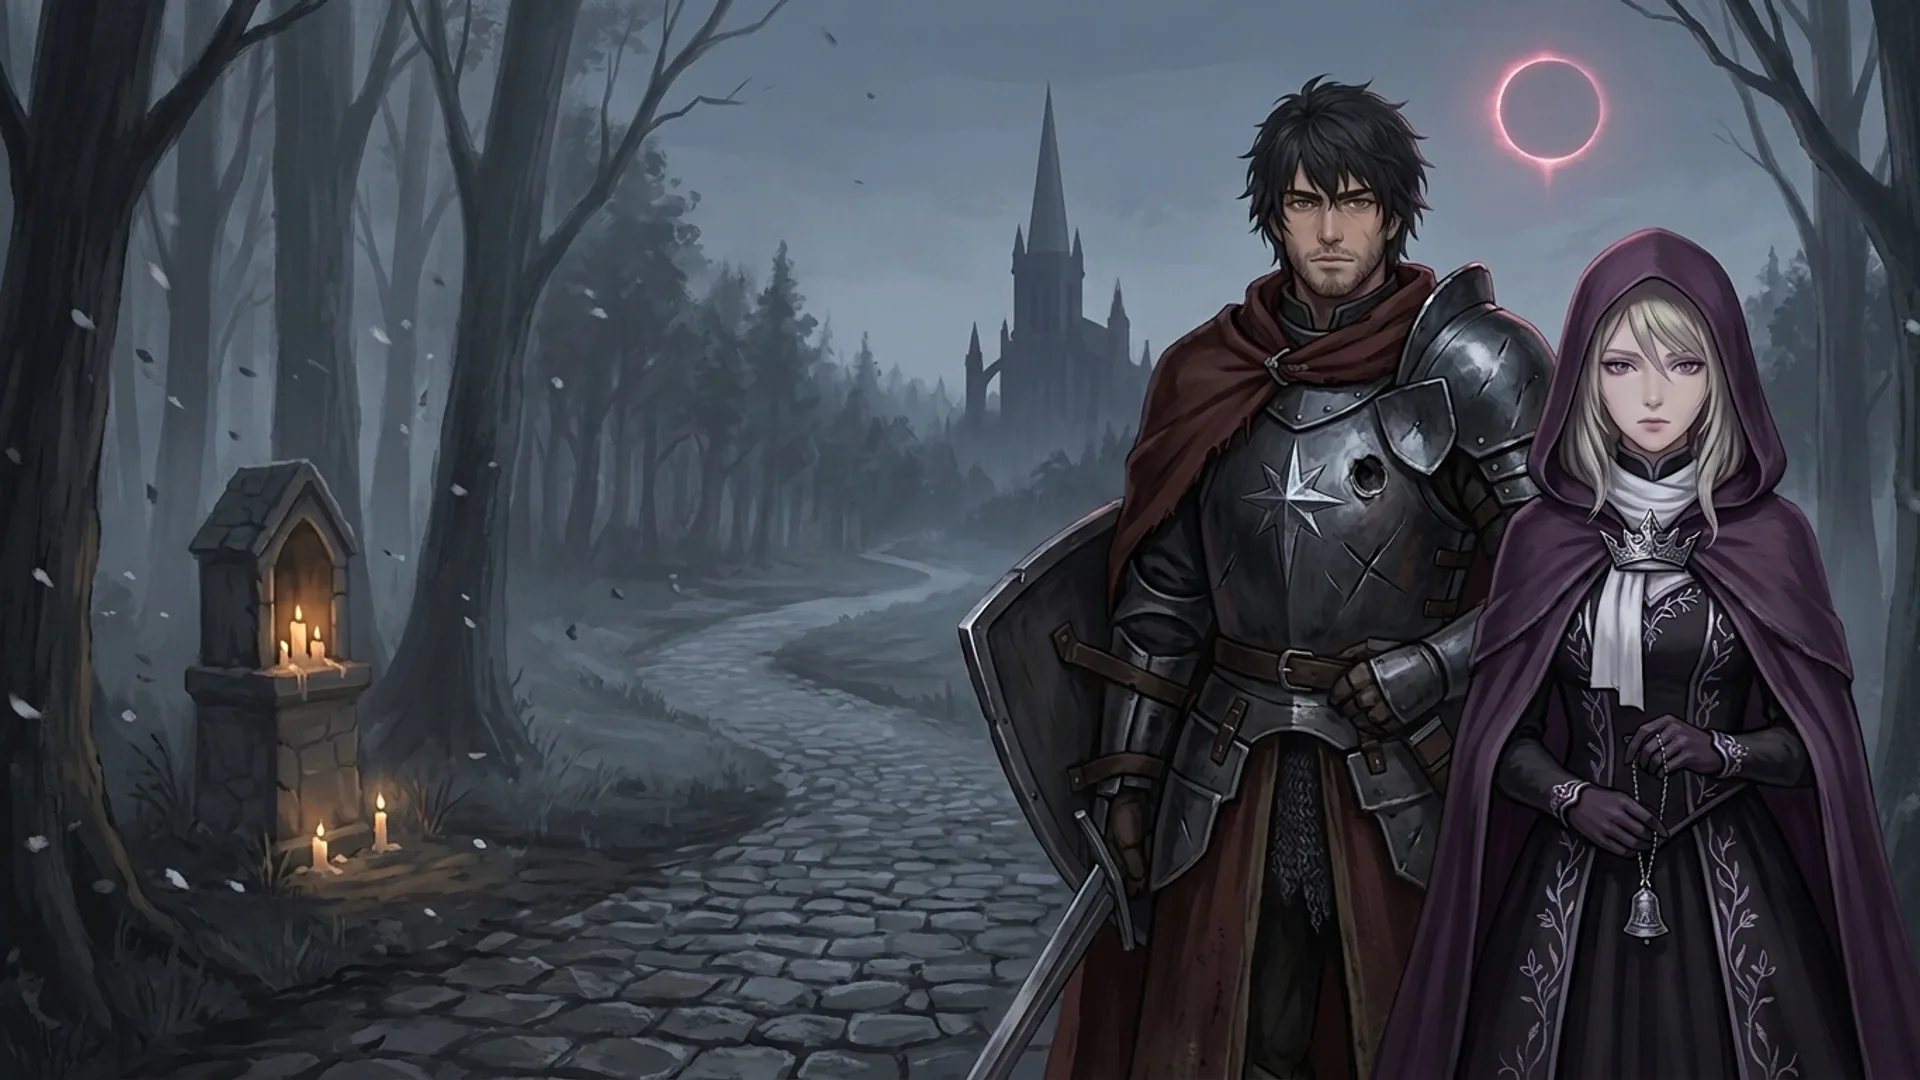
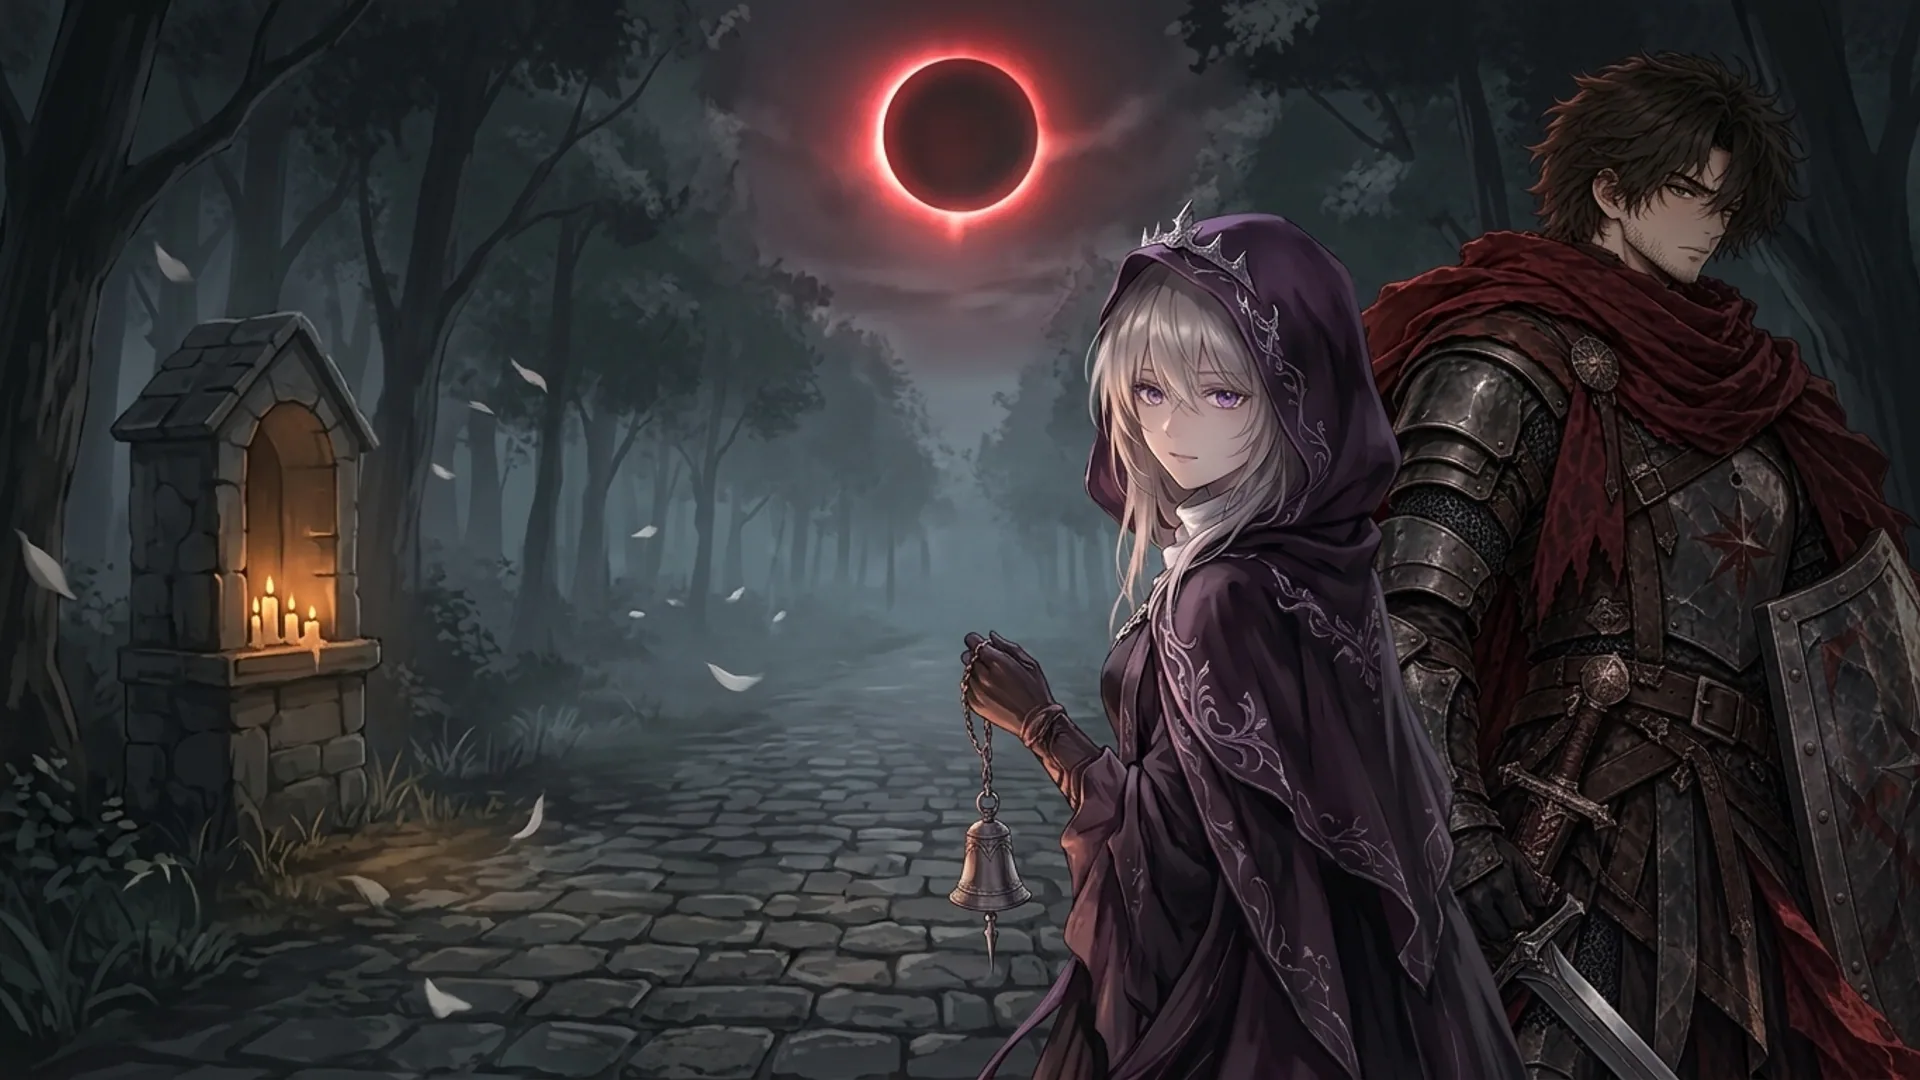
art(step1): regenerate Fadyme & Mahmut plates from canonical templates and remove Prologue scene counter

diff --git a/apps/game/src/scenes/PrologueScene.ts b/apps/game/src/scenes/PrologueScene.ts
@@ -20,7 +20,6 @@ import { C, DEPTH, F, T } from '../ui/theme';
 export const REVEAL_CPS = 26;
 const CROSSFADE_MS = INTRO_FAST ? 60 : 800;
 const TEXT_FADE_MS = INTRO_FAST ? 40 : 450;
-const ROMAN = ['I', 'II', 'III', 'IV', 'V', 'VI', 'VII', 'VIII', 'IX', 'X'] as const;
 
 /** Seconds a scene lasts on screen. Timing comes from the narrative script; `?fastintro` only shortens it for automated review. */
 export const sceneSeconds = (s: PrologueData): number => (INTRO_FAST ? 0.35 : s.duration_seconds);
@@ -36,7 +35,6 @@ export class PrologueScene extends Phaser.Scene {
   private generation = 0;
   private data0: Prologue | null = null;
   private current: Phaser.GameObjects.Image | null = null;
-  private actCounter!: Phaser.GameObjects.Text;
   private caption!: Phaser.GameObjects.Text;
   private captionRule!: Phaser.GameObjects.Graphics;
   private body!: Phaser.GameObjects.Text;
@@ -85,16 +83,7 @@ export class PrologueScene extends Phaser.Scene {
     this.shade.strokeRect(24 + insets.left, 20 + insets.top, REF_W - 48 - insets.left - insets.right, REF_H - 40 - insets.top - insets.bottom);
     this.shade.setAlpha(0);
 
-    const capY = 96 + Math.round(insets.top * 0.5);
-    this.actCounter = txt(this, REF_W / 2, capY - 36, '', {
-      fontFamily: F.display,
-      fontSize: '18px',
-      fontStyle: '600',
-      color: T.dim,
-      stroke: '#05030a',
-      strokeThickness: 3
-    }).setOrigin(0.5).setLetterSpacing(6).setDepth(DEPTH.hud).setAlpha(0);
-
+    const capY = 82 + Math.round(insets.top * 0.5);
     this.caption = txt(this, REF_W / 2, capY, '', {
       fontFamily: F.display,
       fontSize: '34px',
@@ -260,7 +249,7 @@ export class PrologueScene extends Phaser.Scene {
       Sfx.bell(this.index === 4 ? 220 : 330 + (this.index % 3) * 55, 0.08, 1.5);
     }
     this.showPlate(scene, first, holdMs);
-    this.showText(scene, total);
+    this.showText(scene);
     this.fadeTimer?.remove(false);
     this.advanceTimer?.remove(false);
     this.fadeTimer = this.time.delayedCall(Math.max(0, holdMs - TEXT_FADE_MS), () => {
@@ -290,16 +279,13 @@ export class PrologueScene extends Phaser.Scene {
     if (old) this.time.delayedCall(CROSSFADE_MS + 60, () => old.destroy());
   }
 
-  private showText(scene: PrologueData, total: number): void {
+  private showText(scene: PrologueData): void {
     this.typer?.remove(false);
-    this.tweens.killTweensOf([this.body, this.caption, this.actCounter, this.captionRule]);
-    const romCur = ROMAN[this.index] ?? String(this.index + 1);
-    const romTot = ROMAN[total - 1] ?? String(total);
-    this.actCounter.setText(`SCENE ${romCur} / ${romTot}`).setAlpha(0);
+    this.tweens.killTweensOf([this.body, this.caption, this.captionRule]);
     this.caption.setText(scene.caption_en.toUpperCase()).setAlpha(0);
     this.captionRule.setAlpha(0);
     this.body.setText('').setAlpha(1);
-    this.tweens.add({ targets: [this.actCounter, this.caption, this.captionRule], alpha: 1, duration: TEXT_FADE_MS * 2, delay: INTRO_FAST ? 15 : 260 });
+    this.tweens.add({ targets: [this.caption, this.captionRule], alpha: 1, duration: TEXT_FADE_MS * 2, delay: INTRO_FAST ? 15 : 260 });
     const full = this.stage?.text(scene.line_id, scene.text_en) ?? scene.text_en;
     void this.stage?.voice(scene.line_id);
     const step = INTRO_FAST ? 3 : 1;
@@ -317,8 +303,8 @@ export class PrologueScene extends Phaser.Scene {
 
   private fadeText(done: () => void): void {
     this.typer?.remove(false);
-    this.tweens.killTweensOf([this.body, this.caption, this.actCounter, this.captionRule]);
-    this.tweens.add({ targets: [this.body, this.caption, this.actCounter, this.captionRule], alpha: 0, duration: TEXT_FADE_MS, onComplete: done });
+    this.tweens.killTweensOf([this.body, this.caption, this.captionRule]);
+    this.tweens.add({ targets: [this.body, this.caption, this.captionRule], alpha: 0, duration: TEXT_FADE_MS, onComplete: done });
   }
 
   private ending(): void {

diff --git a/tools/mcp_phaser_live.ts b/tools/mcp_phaser_live.ts
@@ -156,6 +156,7 @@ interface InspectOptions {
   scene?: string;
   freshInstall?: boolean;
   fastIntro?: boolean;
+  prologueSceneIndex?: number;
   tapX?: number;
   tapY?: number;
   waitMs?: number;
@@ -164,6 +165,15 @@ interface InspectOptions {
 
 async function inspectLiveScene(opts: InspectOptions): Promise<Record<string, unknown>> {
   mkdirSync(SHOTS_DIR, { recursive: true });
+  try {
+    const syncScript = join(ROOT, 'apps', 'game', 'scripts', 'sync-content.mjs');
+    if (existsSync(syncScript)) {
+      const childSync = spawn(process.execPath, [syncScript], { cwd: join(ROOT, 'apps', 'game'), stdio: 'ignore' });
+      await new Promise((r) => childSync.on('close', r));
+    }
+  } catch {
+    /* ignore */
+  }
   const { url, child } = await ensureLocalViteServer(4179);
   const browser = await chromium.launch({ headless: true });
   try {
@@ -189,6 +199,16 @@ async function inspectLiveScene(opts: InspectOptions): Promise<Record<string, un
           /* ignore */
         }
       }, completed);
+    }
+
+    if (typeof opts.prologueSceneIndex === 'number' && opts.prologueSceneIndex > 0) {
+      await page.addInitScript((idx) => {
+        try {
+          localStorage.setItem('uomd.resume.prologue.v1:guest', JSON.stringify({ index: idx, updatedAt: new Date().toISOString() }));
+        } catch {
+          /* ignore */
+        }
+      }, opts.prologueSceneIndex);
     }
 
     const query = opts.fastIntro === true ? '?fastintro=1' : '';
@@ -244,6 +264,25 @@ async function inspectLiveScene(opts: InspectOptions): Promise<Record<string, un
       targetScene,
       { timeout: 15000 }
     );
+
+    if (typeof opts.prologueSceneIndex === 'number' && targetScene === 'Prologue') {
+      await page.evaluate((targetIdx) => {
+        const g = (window as unknown as {
+          __UOMD__?: {
+            game?: {
+              scene?: {
+                getScene(k: string): { index: number; next(): void } | undefined;
+              };
+            };
+          };
+        }).__UOMD__?.game;
+        const p = g?.scene?.getScene('Prologue');
+        if (p && p.index !== targetIdx) {
+          p.index = targetIdx - 1;
+          p.next();
+        }
+      }, opts.prologueSceneIndex);
+    }
 
     await page.waitForTimeout(opts.waitMs ?? 1600);
 
@@ -417,6 +456,7 @@ async function handleRequest(req: JsonRpcRequest): Promise< Record<string, unkno
           scene: typeof args.scene === 'string' ? args.scene : undefined,
           freshInstall: Boolean(args.freshInstall),
           fastIntro: Boolean(args.fastIntro),
+          prologueSceneIndex: typeof args.prologueSceneIndex === 'number' ? args.prologueSceneIndex : undefined,
           tapX: typeof args.tapX === 'number' ? args.tapX : undefined,
           tapY: typeof args.tapY === 'number' ? args.tapY : undefined,
           waitMs: typeof args.waitMs === 'number' ? args.waitMs : undefined,

diff --git a/apps/game/src/scenes/TitleScene.ts b/apps/game/src/scenes/TitleScene.ts
@@ -100,16 +100,11 @@ export class TitleScene extends Phaser.Scene {
     }
 
     const shade = this.add.graphics();
-    // Subtle left-upper vignette behind the logo and bottom cinematic gradient behind TAP TO CONTINUE
-    shade.fillGradientStyle(0x05030a, 0x05030a, 0x05030a, 0x05030a, 0.72, 0.72, 0, 0);
-    shade.fillRect(0, 0, REF_W, 170);
-    shade.fillGradientStyle(0x05030a, 0x05030a, 0x05030a, 0x05030a, 0, 0, 0.9, 0.9);
-    shade.fillRect(0, REF_H - 270, REF_W, 270);
-    try {
-      this.cameras.main.filters.external.addVignette(0.5, 0.5, 0.88, 0.32);
-    } catch {
-      /* cosmetic */
-    }
+    // Light top bar gradient for utility pills and bottom gradient behind TAP TO CONTINUE
+    shade.fillGradientStyle(0x05030a, 0x05030a, 0x05030a, 0x05030a, 0.32, 0.32, 0, 0);
+    shade.fillRect(0, 0, REF_W, 110);
+    shade.fillGradientStyle(0x05030a, 0x05030a, 0x05030a, 0x05030a, 0, 0, 0.78, 0.78);
+    shade.fillRect(0, REF_H - 220, REF_W, 220);
 
     if (!prefs().reducedMotion && this.textures.exists('fx_spark')) {
       this.addTitleAtmosphere();
